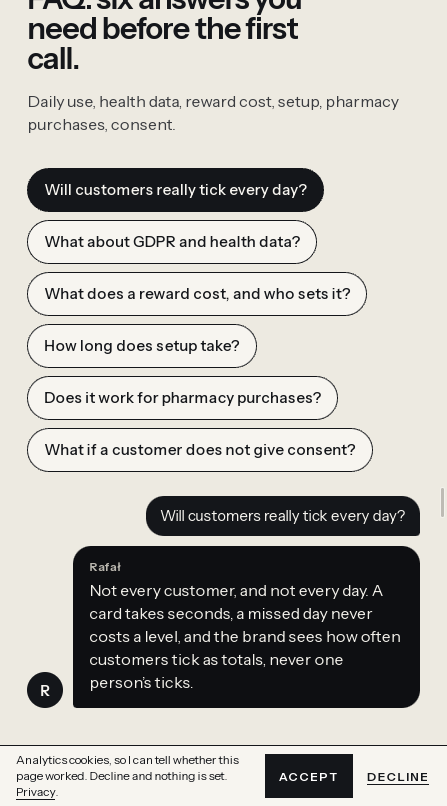
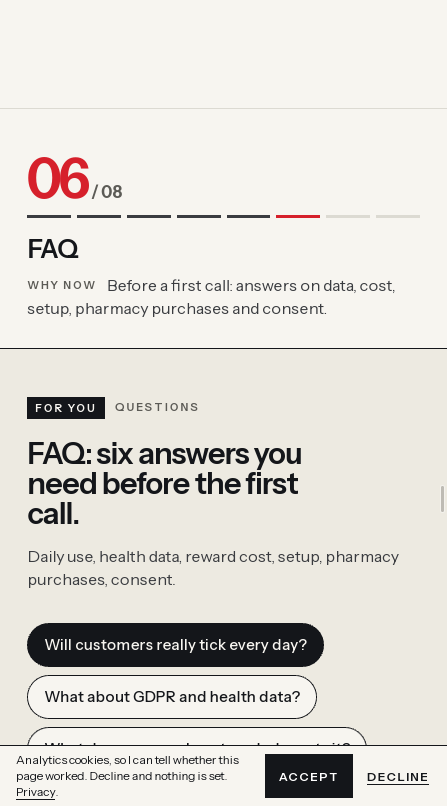
PILNE 2 pkt 3: przerywniki rozdzialow /nawyko (NN / 08, nazwa, Why now z marka odwiedzajacego) przed kazda sekcja; pasek rozdzialow z tymi samymi nazwami; pasek ustepuje calej przypietej scenie kokpitu (sticky-fixed 1100x620); spec 53 z planem pkt 2 dla nastepnego przebiegu, recenzje 58-59, lekcja R

Changed region(s): [[0.0582, 0.1241, 0.9597, 0.9305], [0.0582, 0.0, 0.6689, 0.0931]]

diff --git a/app/nawyko/NawykoClient.tsx b/app/nawyko/NawykoClient.tsx
@@ -2,7 +2,7 @@
 
 import { useCallback, useEffect, useLayoutEffect, useRef, useState, useSyncExternalStore } from 'react'
 import { Enquiry, NextSteps, QuickEnquiry } from './Enquiry'
-import { FAQ } from './content'
+import { FAQ, NK_CHAPTERS } from './content'
 import { DEMO_BRAND, contrast, inkOn, mix, monogram, onColour, useBrand } from '../lib/brand-engine'
 import './cockpit-scroll.css'
 
@@ -2394,6 +2394,39 @@ const HERO_TILE = '#1B1D21' // najjasniejsze tlo pod akcentem w telefonie hero (
 const RING = 30
 const HERO_DAY = 9
 
+/* ── PILNE 2 pkt 3 (Rafal 28.11.2026): przerywnik rozdzialu ──
+   Pelna szerokosc przed kazda sekcja: „03 / 08”, nazwa (ta sama w pasku rozdzialow) i jedno zdanie, dlaczego teraz.
+   Reaguje na odwiedzajacego: nazwa marki w zdaniu, numer i podzialka rozdzialow w kolorze marki. */
+type ChapterId = (typeof NK_CHAPTERS)[number]['id']
+export function Interlude({ id }: { id: ChapterId }) {
+  const { colour, brand } = useBrand()
+  const i = NK_CHAPTERS.findIndex((c) => c.id === id)
+  const c = NK_CHAPTERS[i]
+  const n = NK_CHAPTERS.length
+  const pad = (v: number) => String(v).padStart(2, '0')
+  return (
+    <div
+      className="nk-ch"
+      id={c.id}
+      style={{ ['--brand' as string]: colour, ['--hi' as string]: inkOn(colour, '#F4F1EA') }}
+    >
+      <p className="nk-ch-num" aria-label={`Chapter ${i + 1} of ${n}`}>
+        <b>{pad(i + 1)}</b>
+        <span aria-hidden="true"> / {pad(n)}</span>
+      </p>
+      <ol className="nk-ch-ticks" aria-hidden="true">
+        {NK_CHAPTERS.map((x, k) => (
+          <li key={x.id} className={k < i ? 'is-past' : k === i ? 'is-on' : ''} />
+        ))}
+      </ol>
+      <p className="nk-ch-name">{c.label}</p>
+      <p className="nk-ch-why">
+        <span className="nk-caps">Why now</span> {c.why.replace(/\{b\}/g, brand)}
+      </p>
+    </div>
+  )
+}
+
 /* ── spec 26 p1: hero z zywym ekranem aplikacji w marce odwiedzajacego ──
    Ciemny ekran „Today” jak w prawdziwej aplikacji (bez zrzutow z prywatnego repo): naglowek z monogramem i nazwa,
    tarcza 30 dni wokol opakowania, trzy kafelki, karta dnia do zdrapania w kolorze marki. Pod telefonem: nazwa + kolor
@@ -2602,17 +2635,24 @@ export function Story() {
 
   return (
     <div ref={root}>
+      <Interlude id="ch-how" />
       <Scene skin={skin} />
       <DemoNote className="nk-demo nk-demo-after" />
 
+      <Interlude id="ch-rewards" />
       <Loyalty skin={skin} brand={own ? name.trim() : DEMO_BRAND} />
+      <Interlude id="ch-side" />
       <BrandCockpit skin={skin} brand={own ? name.trim() : DEMO_BRAND} />
+      <Interlude id="ch-engine" />
       <Evidence brand={own ? name.trim() : DEMO_BRAND} />
 
+      <Interlude id="ch-faq" />
       <Faq />
 
+      <Interlude id="ch-morning" />
       <Finale />
 
+      <Interlude id="ch-next" />
       <section
         className="nk-final nk-final-solo"
         id="enquiry"

diff --git a/app/nawyko/nawyko.css b/app/nawyko/nawyko.css
@@ -1420,3 +1420,34 @@ html[data-brand-wait] .nk-store-app b,html[data-brand-wait] .nk-store-mono,html[
   .nk-qf-row{grid-template-columns:minmax(0,1fr);}
 }
 .nk-form label.nk-f em{font-style:normal;font-weight:400;letter-spacing:.06em;text-transform:none;color:var(--dim);}
+
+/* ── PILNE 2 pkt 3 (Rafal 28.11.2026): przerywniki rozdzialow ──
+   Pelna szerokosc przed kazda sekcja: numer i podzialka rozdzialow (kolor marki) po lewej, nazwa i „Why here” po prawej.
+   Na telefonie jedna kolumna. Wejscie: CSS scroll-driven (view()) tylko tam, gdzie jest wsparcie i bez ograniczenia ruchu;
+   bez wsparcia (starsze Safari) przerywnik stoi od razu w stanie koncowym. */
+.nk-ch{--brand:#D6202B;--hi:#9E161F;display:grid;grid-template-columns:minmax(0,5fr) minmax(0,7fr);column-gap:clamp(24px,4vw,64px);
+  row-gap:14px;align-items:end;padding:clamp(44px,7vw,104px) var(--m) clamp(28px,4vw,56px);border-top:1px solid var(--line);
+  background:var(--paper);color:var(--ink);scroll-margin-top:64px;}
+.nk-ch-num{grid-column:1;grid-row:1;display:flex;align-items:baseline;gap:.15em;font-variant-numeric:tabular-nums;line-height:.9;}
+.nk-ch-num b{font-size:clamp(56px,9vw,128px);font-weight:600;letter-spacing:-.06em;color:var(--hi);}
+.nk-ch-num span{font-size:clamp(18px,2vw,26px);font-weight:600;letter-spacing:-.02em;color:var(--dim);}
+.nk-ch-ticks{grid-column:1;grid-row:2;display:flex;gap:6px;margin:0;padding:0;list-style:none;max-width:320px;}
+.nk-ch-ticks li{flex:1;height:3px;background:var(--line);}
+.nk-ch-ticks li.is-past{background:var(--ink2);}
+.nk-ch-ticks li.is-on{background:var(--brand);}
+.nk-ch-name{grid-column:2;grid-row:1;align-self:end;font-size:clamp(26px,3.2vw,44px);font-weight:600;letter-spacing:-.035em;line-height:1.02;}
+.nk-ch-why{grid-column:2;grid-row:2;max-width:56ch;color:var(--ink2);font-size:clamp(16px,1.25vw,19px);line-height:1.45;}
+.nk-ch-why .nk-caps{display:inline-block;margin-right:.6em;color:var(--dim);font-size:11px;vertical-align:.12em;}
+@media (max-width:759px){
+  .nk-ch{grid-template-columns:minmax(0,1fr);row-gap:12px;}
+  .nk-ch-num,.nk-ch-ticks,.nk-ch-name,.nk-ch-why{grid-column:1;grid-row:auto;}
+  .nk-ch-ticks{max-width:none;margin-bottom:6px;}
+}
+@supports (animation-timeline: view()){
+  @media (prefers-reduced-motion: no-preference){
+    .nk-ch-num b,.nk-ch-name,.nk-ch-why{animation:nk-ch-in linear both;animation-timeline:view();animation-range:entry 10% cover 32%;}
+    .nk-ch-ticks li.is-on{transform-origin:left;animation:nk-ch-tick linear both;animation-timeline:view();animation-range:entry 20% cover 36%;}
+  }
+}
+@keyframes nk-ch-in{from{opacity:0;transform:translateY(28px);}to{opacity:1;transform:none;}}
+@keyframes nk-ch-tick{from{transform:scaleX(0);}to{transform:scaleX(1);}}

diff --git a/app/nawyko/page.tsx b/app/nawyko/page.tsx
@@ -2,10 +2,10 @@ import type { Metadata, Viewport } from 'next'
 import { preload } from 'react-dom'
 import { ChapterBar } from './ChapterBar'
 import { SiteNav } from '../components/SiteNav'
-import { DayStrip, HeroApp, QuickAsk, Story } from './NawykoClient'
+import { DayStrip, HeroApp, Interlude, QuickAsk, Story } from './NawykoClient'
 import { HeroGap } from '../calculator/HeroGap'
 import './nawyko.css'
-import { FAQ, FEATURES } from './content'
+import { FAQ, FEATURES, NK_CHAPTERS } from './content'
 
 const URL = 'https://oleksiakconsulting.com/nawyko'
 const TITLE = 'Nawyko — a white-label habit and loyalty app for brands people buy again'
@@ -92,16 +92,9 @@ const JSON_LD = {
   ],
 }
 
-// Spec 20: rozdzialy paska — te same nazwy co w drugim poziomie nawigacji (≥ 1200 px), plus Privacy.
-const CHAPTERS = [
-  { id: 'how', label: 'How it works' },
-  { id: 'cashback', label: 'Cashback' },
-  { id: 'levels', label: 'Points' },
-  { id: 'exchange', label: 'Point value' },
-  { id: 'cockpit', label: 'Your side' },
-  { id: 'faq', label: 'FAQ' },
-  { id: 'finale', label: 'One morning' },
-]
+// Spec 20 → PILNE 2 pkt 3 (28.11): rozdzialy paska = nazwy przerywnikow (NK_CHAPTERS); „Next step” prowadzi tam,
+// gdzie przycisk paska „Ask about Nawyko”, wiec pasek go nie powtarza.
+const CHAPTERS = NK_CHAPTERS.filter((c) => c.id !== 'ch-next').map((c) => ({ id: c.id, label: c.label }))
 
 const PIN_JS =
   "try{if(!matchMedia('(prefers-reduced-motion: reduce)').matches&&!navigator.webdriver&&innerHeight>=600)document.documentElement.setAttribute('data-nk-pin','')}catch(e){}"
@@ -163,6 +156,7 @@ export default function Nawyko() {
           <HeroGap />
         </section>
         {/* R6'q14-A (Rafal 28.11 10:37): krotki formularz zaraz pod hero + trzy kroki i forma rozliczenia */}
+        <Interlude id="ch-store" />
         <QuickAsk />
 
         <Story />

diff --git a/app/nawyko/content.ts b/app/nawyko/content.ts
@@ -39,3 +39,18 @@ export const FEATURES = [
   'Reorder lift, measured against customers who never get the app.',
   'Any store engine: pick yours, from Shopify to a custom build.',
 ] as const
+
+/* PILNE 2 pkt 3 (Rafal 28.11.2026 11:33: „nie rozumiem kolejnosci, dlaczego co jest po czym”): przerywniki rozdzialow
+   przed kazda sekcja /nawyko — numer, nazwa (ta sama w pasku rozdzialow) i jedno zdanie, dlaczego to wlasnie teraz.
+   {b} = nazwa marki odwiedzajacego (albo marki pokazowej). Kolejnosc sekcji bez zmian. Bramka tekstow: copy-voice +
+   czytelnik-kupujacy (agencja/recenzje/58-*). */
+export const NK_CHAPTERS = [
+  { id: 'ch-store', label: 'Start here', why: 'Ready to start? Two fields and you are done. Want detail first? Every section below shows what {b} customers get.' },
+  { id: 'ch-how', label: 'How it works', why: 'The whole app in four steps, from purchase to the next pack. Each section after this opens one part of it.' },
+  { id: 'ch-rewards', label: 'Rewards', why: 'Next, what customers earn: cashback and points they can spend only on the next {b} order.' },
+  { id: 'ch-side', label: 'Your side', why: 'Now your side: what you set, from rewards to consents, and when packs are due to run out.' },
+  { id: 'ch-engine', label: 'Store engine', why: 'Rewards are redeemed as single-use codes in the {b} online store. Shopify is ready; other engines connect through an adapter.' },
+  { id: 'ch-faq', label: 'FAQ', why: 'Before a first call: answers on data, cost, setup, pharmacy purchases and consent.' },
+  { id: 'ch-morning', label: 'One morning', why: 'A recap: one customer’s morning in {b}’s colours, with every part above working together.' },
+  { id: 'ch-next', label: 'Next step', why: 'Send your store address. Rafał replies personally within 24 hours.' },
+] as const

diff --git a/app/nawyko/ChapterBar.tsx b/app/nawyko/ChapterBar.tsx
@@ -118,7 +118,10 @@ export function ChapterBar({ chapters, afterId, ctaHref, ctaLabel, className = '
       // caly blok .nk-fz-copy, nie sama etykieta (recenzja 50 I1: przy koncu toru pasek wracal na naglowek momentu); na telefonie stoi 16 px od gory i pasek przykrywal go przy kazdym ruchu w gore. Wezly z pamieci (bez
       // querySelectorAll w kazdej klatce przewijania); ponowne wyszukanie tylko, gdy React podmienil wezel.
       if (!yieldEls.length || yieldEls.some((el) => !el.isConnected)) {
-        yieldEls = Array.from(document.querySelectorAll<HTMLElement>('.nk-cockpit .nk-ck-head, .nk-cockpit .nk-ck-tabs, .nk-fz-copy'))
+        // PILNE 2 (28.11, sticky-fixed 1100x620 po dodaniu przerywnikow): przy odjezdzie kokpitu w gore naglowek jest juz nad
+        // ekranem, a etykieta ostatniego panelu („For you · What the brand sees”) stala pod paskiem — pasek ustepuje calej
+        // przypietej scenie kokpitu (.nk-ck-pin), dopoki jakakolwiek jej czesc lezy w pasie 0–96 px.
+        yieldEls = Array.from(document.querySelectorAll<HTMLElement>('.nk-cockpit .nk-ck-head, .nk-cockpit .nk-ck-tabs, .nk-cockpit .nk-ck-pin, .nk-fz-copy'))
       }
       let yieldTop = false
       for (const el of yieldEls) {

diff --git a/agencja/specs/53-pilne2-reveal-przerywniki-sceny.md b/agencja/specs/53-pilne2-reveal-przerywniki-sceny.md
@@ -13,5 +13,32 @@ Kryteria: `node scripts/reveal-after-brand.mjs` i `xvfb-run -a python3 -I script
 (390 i 1440, hero i finał: reveal0, rearm1, drag1, reveal1, rearm2 po samej nazwie, reveal2); kontrola pozytywna na
 buildzie sprzed poprawki = FAIL. Oba w `gates.sh` na stałe przy `/nawyko`.
 
-## Pkt 3 — przerywniki rozdziałów (w toku, ten przebieg)
-## Pkt 2 — przypięte sceny „Cashback…” i „Any store engine…” (w toku, termin 13:40)
+## Pkt 3 — przerywniki rozdziałów (zrobione w przebiegu 11:38)
+Osiem przerywników `Interlude` (`NK_CHAPTERS` w `content.ts`) przed każdą sekcją widoczną w trybie przewijania:
+01 Start here (formularz pod hero) · 02 How it works · 03 Rewards · 04 Your side · 05 Store engine · 06 FAQ · 07 One morning ·
+08 Next step. Każdy: „NN / 08” i podziałka rozdziałów w kolorze marki, nazwa (ta sama w pasku rozdziałów — pasek bierze
+`NK_CHAPTERS` bez „Next step”, bo prowadzi tam przycisk paska), „Why now” + jedno zdanie z nazwą marki odwiedzającego.
+Wejście przez CSS scroll-driven (`view()`) tylko przy wsparciu i bez ograniczenia ruchu. Kolejność sekcji bez zmian;
+dało się ją wytłumaczyć, więc bez propozycji nowej kolejności. Oś nagród („Every reward is listed from day one.”) w trybie
+statycznym należy do rozdziału 02 (w trybie przewijania to akt sceny).
+Teksty: copy-voice OK, czytelnik-kupujący (8 × FIX w pierwszej wersji → przepisane według jego zastrzeżeń: kolejność
+tłumaczona w każdym zdaniu, bez absolutów „whatever it runs on”, „Why here” → „Why now”), wpis w teksty-do-akceptacji.
+
+## Pkt 2 — przypięte sceny (NASTĘPNY PRZEBIEG; termin Rafała 13:40 dla dwóch sekcji)
+Wzór techniczny: `cockpit-scroll.css` + `[data-pin]` ustawiany JS-em (warunek jak `CK_PIN_Q` + brak `navigator.webdriver`),
+rezerwa wysokości przed hydratacją jak `PIN_JS` (inaczej CLS przy wejściu z kotwicą).
+A. **„Cashback grows with every {marka} order.”** (`Loyalty`, `#loyalty`, trzy kafle bento: Cashback wallet → Points and
+   levels → You set what each point is worth). Tor = 3 × 60svh + ekran; w środku `position: sticky; top: 0`, wysokość
+   ekran minus `--consent-h`. Krok k odsłania kafel k (kumulatywnie: na końcu widać całe bento, nic nie znika — Z-05),
+   licznik „1 of 3” + podziałka jak `.nk-ck-prog`, nazwy kroków jako przyciski-skróty (klik = `scrollTo` środka odcinka,
+   jak `go()` w finale). Telefon 390: przypięty jeden kafel naraz (bieżący) z podpisem i licznikiem, bez ucięć na 390×844
+   i 360×740 z paskiem cookies; jeśli kafel nie mieści się — bez przypięcia (jak niskie okno). Bez przypięcia: reduced-motion,
+   wysokość < 600 px, webdriver, bez JS — dzisiejsze bento 1:1.
+B. **„Any store engine: pick yours, from Shopify to a custom build.”** (`Evidence` → `StoreMap`): kroki = silniki z listy
+   (wybór silnika przewijaniem, klik pigułki = skrót) i na końcu schemat sklep ↔ adapter ↔ aplikacja; te same warunki.
+Bramki na każdej scenie: `sticky-fixed`, CLS 390/1440, clsscroll, `scroll-perf` ≤ 100 ms, WebKit 390/1440, `reflow`,
+`short-viewport`, `section-inventory` (nic nie znika), `reveal-after-brand`, `brand-propagation`, recenzent niezależny.
+Zasada z nauki (The Pudding „Scrollytelling: sticky”, https://pudding.cool/process/scrollytelling-sticky/): podpisy kroków
+to prawdziwe bloki tekstu w przepływie dokumentu, które przewijają się obok przypiętej grafiki (`position: sticky`), a nie
+treść podmieniana skryptem — czytnik ekranu i klawiatura dostają wszystkie kroki po kolei, bez JS widać wszystko, a krok
+aktywny wyznacza położenie podpisu (IntersectionObserver / `getBoundingClientRect`), nie przechwytywanie przewijania.

diff --git a/agencja/teksty-do-akceptacji.md b/agencja/teksty-do-akceptacji.md
@@ -456,3 +456,16 @@ copy-voice OK. Czytelnik-kupujący: NIE uruchomiony — do zrobienia przez Leada
 - NOWE rozliczenie: „One setup fee plus a monthly fee. You get your quote after the first call.” (Twoje zdanie, „You get…” z bramki tekstów)
 - NOWE po wysłaniu: „Enquiry received.” / „Rafał replies personally within 24 hours.”
 - ZMIENIONE dolny formularz: „Your store URL” / „Your email” + „(required)” (rubryka pkt 13)
+
+### Przebieg PILNY 28.11 11:38 — `/nawyko` przerywniki rozdziałów (PILNE TERAZ 2 pkt 3)
+- NOWE przerywniki „NN / 08” + nazwa + „Why now” (nazwy też w pasku rozdziałów; {b} = marka odwiedzającego):
+  01 Start here — „Ready to start? Two fields and you are done. Want detail first? Every section below shows what {b} customers get.”
+  02 How it works — „The whole app in four steps, from purchase to the next pack. Each section after this opens one part of it.”
+  03 Rewards — „Next, what customers earn: cashback and points they can spend only on the next {b} order.”
+  04 Your side — „Now your side: what you set, from rewards to consents, and when packs are due to run out.”
+  05 Store engine — „Rewards are redeemed as single-use codes in the {b} online store. Shopify is ready; other engines connect through an adapter.”
+  06 FAQ — „Before a first call: answers on data, cost, setup, pharmacy purchases and consent.”
+  07 One morning — „A recap: one customer’s morning in {b}’s colours, with every part above working together.”
+  08 Next step — „Send your store address. Rafał replies personally within 24 hours.”
+- ZMIENIONE pasek rozdziałów: „How it works · Cashback · Points · Point value · Your side · FAQ · One morning” → „Start here · How it works · Rewards · Your side · Store engine · FAQ · One morning” (nawigacja górna bez zmian).
+- Czytelnik-kupujący: pierwsza wersja 8 × FIX („Why here” brzmi jak miejsce, „whatever it runs on” absolut, 01/06/07 nie tłumaczyły kolejności) → przepisane według uwag; recenzja w `agencja/recenzje/58-teksty-przerywniki.md`.

diff --git a/agencja/postep-uczenia.md b/agencja/postep-uczenia.md
@@ -94,3 +94,5 @@ Jedna linia na przebieg: data · czego się nauczyliśmy (źródło) · co konkr
 - 28.11 11:05 · Retro: grid w `<li>` rozbił tekst i link (zrzut, nie bramka) → treść komórki w jednym elemencie; Tab przycisk przed zgodą (recenzent) → test kolejności w `nawyko-ask-check`; bramki przed recenzją drugi raz (R47.2) → mechanizm: bramki dopiero po werdykcie.
 - 28.11 11:25 (R6' p17) · Genesys Growth „Components of customer case study pages” (https://genesysgrowth.com/blog/components-customer-case-study-pages): hero → streszczenie → przed/po → wyzwanie z cytatem → rozwiązanie ze zrzutami → wynik z wykresem → następny krok; „Lead with your primary metric, then layer secondary results.” · Zmiana: N17-3 — porównanie `/work/genactiv` z tą strukturą w następnym zleceniu recenzenta.
 - 28.11 11:25 · Retro: bramki kontrastu tylko w stanie startowym i kolorze demo przez 16 przebiegów → wszystkie stany i skrajne kolory marki (R49.1); „nieznane tło” osobno, nie jako PASS (R49.2); numeracja specu/lekcji przy commicie zamykającym (R49.3).
+- 28.11 12:30 (PILNE 2) · The Pudding „Scrollytelling: sticky” (https://pudding.cool/process/scrollytelling-sticky/): podpisy kroków jako prawdziwe bloki w przepływie obok przypiętej grafiki (`position: sticky`), nie treść podmieniana skryptem → zasada wpisana do spec 53 pkt 2 (przypięte sceny Cashback i Store engine: wszystkie kroki w DOM, krok aktywny z położenia podpisu).
+- 28.11 12:30 · Retro: Reveal martwy po zmianie marki — testy jednym przebiegiem od stanu startowego, bez sekwencji „działanie → zmiana marki → działanie” (R50.1 → test `reveal-after-brand` w gates); pędzel 16 % na folii marki nie złapany 4 dni, bo test klikał, nie mierzył zdrapania (R50.2).

diff --git a/agencja/recenzje/58-teksty-przerywniki.md b/agencja/recenzje/58-teksty-przerywniki.md
@@ -1,0 +1,10 @@
+# Recenzja 58 — czytelnik-kupujący, przerywniki rozdziałów /nawyko (28.11 przebieg 11:38)
+Osobny subagent (Sonnet), sama lista tekstów bez strony, rola: menedżer e-commerce/CRM marki suplementów.
+Werdykt pierwszej wersji: 01–07 FIX, 08 OK, etykieta „Why here” FIX. Najważniejsze:
+- 01 nie tłumaczy, czemu formularz stoi zaraz pod hero; „Your store” to dziwna nazwa dla formularza → „Start here”.
+- 02/04/06/07 mówiły, co jest w sekcji, a nie dlaczego teraz → każde zdanie łączy się teraz z poprzednim („Next…”, „Now your side…”, „Before a first call…”, „A recap…”).
+- 05 „whatever it runs on” — absolut wbrew faktom (Shopify gotowy, inne przez adapter) → wprost: „Shopify is ready; other engines connect through an adapter.”
+- „really runs out”, „before you decide” — zbędny nacisk → usunięte.
+- „Why here” czyta się jak miejsce → „Why now”.
+Odpowiedź na pytanie „czy 8 przerywników tłumaczy kolejność”: w pierwszej wersji tylko 02–05; po poprawkach każde zdanie
+mówi, dlaczego ta sekcja stoi w tym miejscu. Druga runda czytelnika — w następnym przebiegu razem z tekstami pkt 2.

diff --git a/agencja/recenzje/59-przerywniki-wyglad.md b/agencja/recenzje/59-przerywniki-wyglad.md
@@ -1,0 +1,7 @@
+# Recenzja 59 — niezależny recenzent wyglądu, przerywniki /nawyko + Reveal (28.11 przebieg 11:38)
+Osobny subagent (Sonnet), nie widział budowy; zrzuty Chromium 390/1440 (`agencja/podglad/p2-3-*`) i WebKit (`p2-wk-nawyko-*`).
+Werdykt: PASS (6/6): czytelne w 5 s, bez kiczu (kolor numeru i podziałki niesie funkcję), bez ucięć i nachodzeń,
+telefon ~230 px na przerywnik bez złych łamań, kontrast na oko ≥ 4,5:1, osiem jednakowych bloków to nawigacja (podziałka
+i numer dają każdemu tożsamość).
+Sugestie (do następnego przebiegu, nie blokują): przerywnik na desktopie niższy (~340 px), nazwa rozdziału powtarza się
+z etykietą/nagłówkiem sekcji („Store engine” / „Any store engine…”); „WHY NOW” ciemniejszym szarym.
